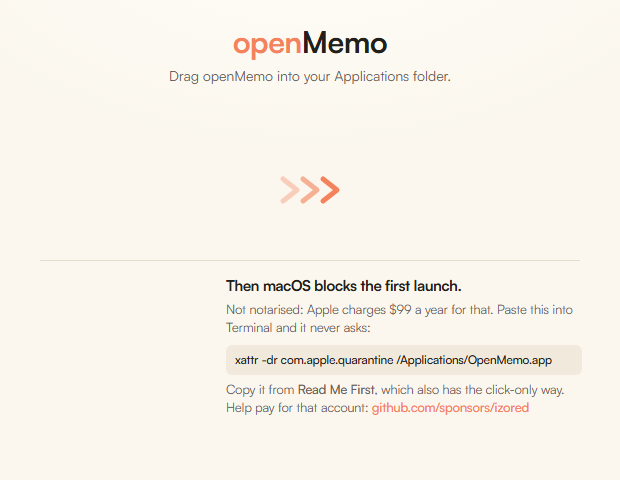
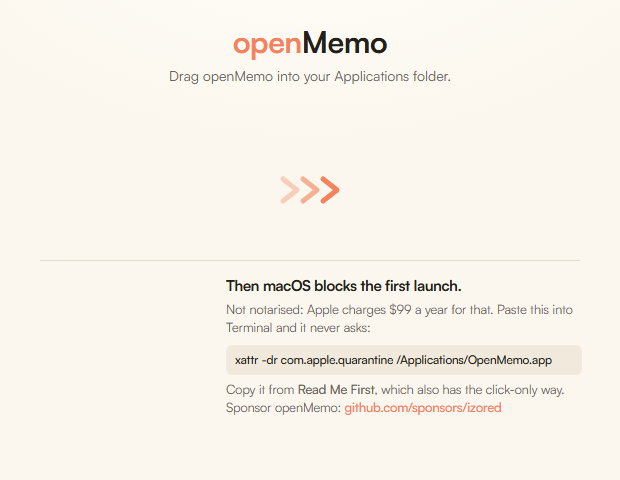
style(macos): reword the sponsor line on the dmg window
"Help pay for that account" asks before it explains. The line above already
says what Apple charges, so the link only needs naming.

Changed region(s): [[0.3677, 0.8438, 0.8581, 0.875]]

diff --git a/macOS/buildResources/dmg/background.html b/macOS/buildResources/dmg/background.html
@@ -83,5 +83,5 @@
   <h2>Then macOS blocks the first launch.</h2>
   <p>Not notarised: Apple charges $99 a year for that. Paste this into Terminal and it never asks:</p>
   <div class="cmd">xattr -dr com.apple.quarantine /Applications/OpenMemo.app</div>
-  <p class="cmd-label">Copy it from <b>Read Me First</b>, which also has the click-only way.<br />Help pay for that account: <i>github.com/sponsors/izored</i></p>
+  <p class="cmd-label">Copy it from <b>Read Me First</b>, which also has the click-only way.<br />Sponsor openMemo: <i>github.com/sponsors/izored</i></p>
 </div>
